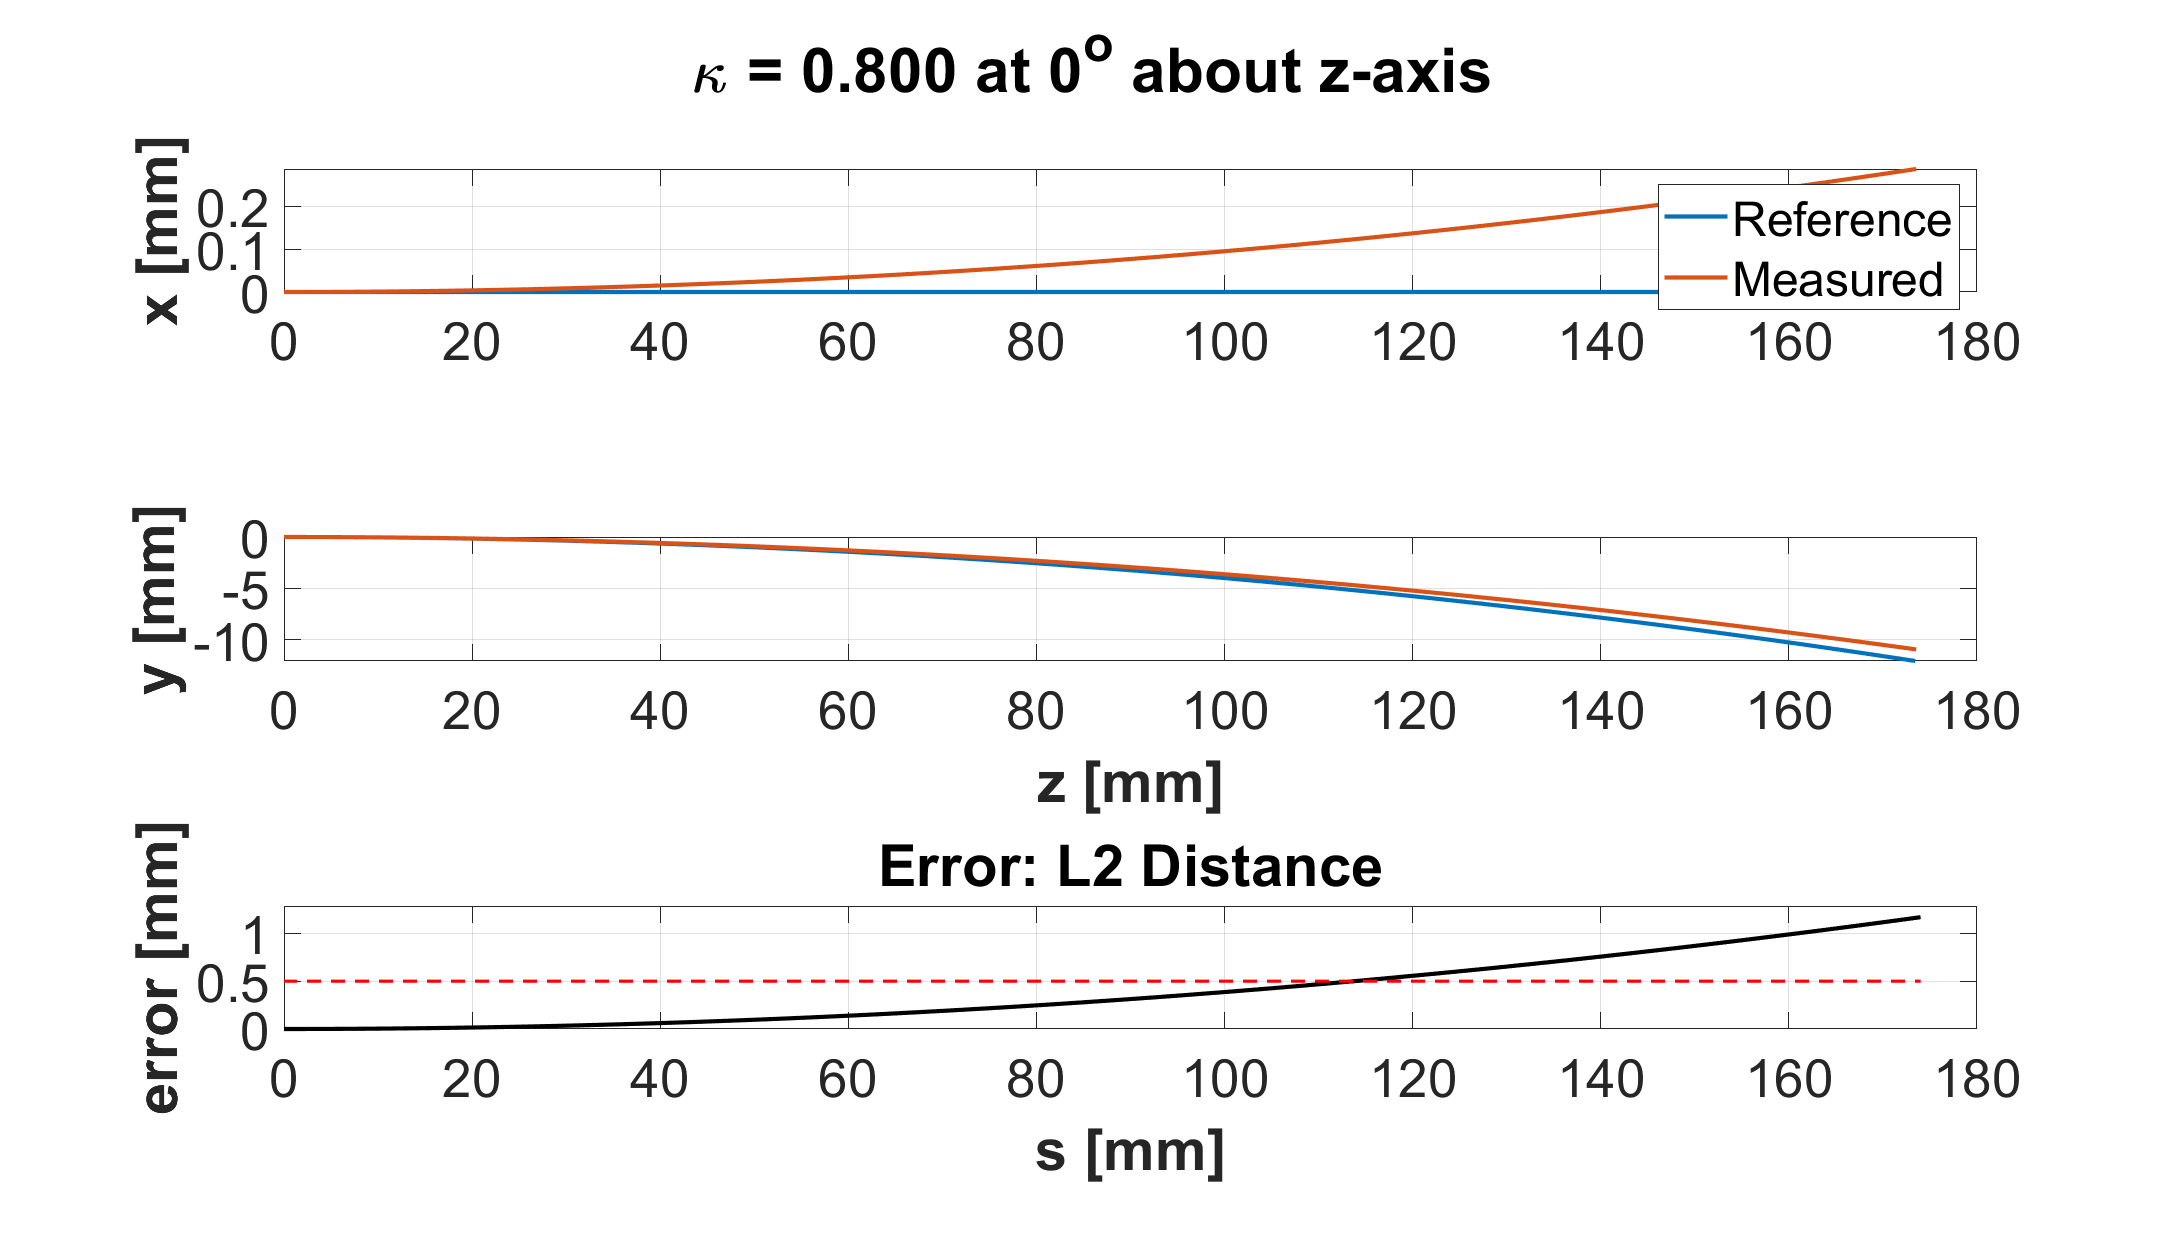
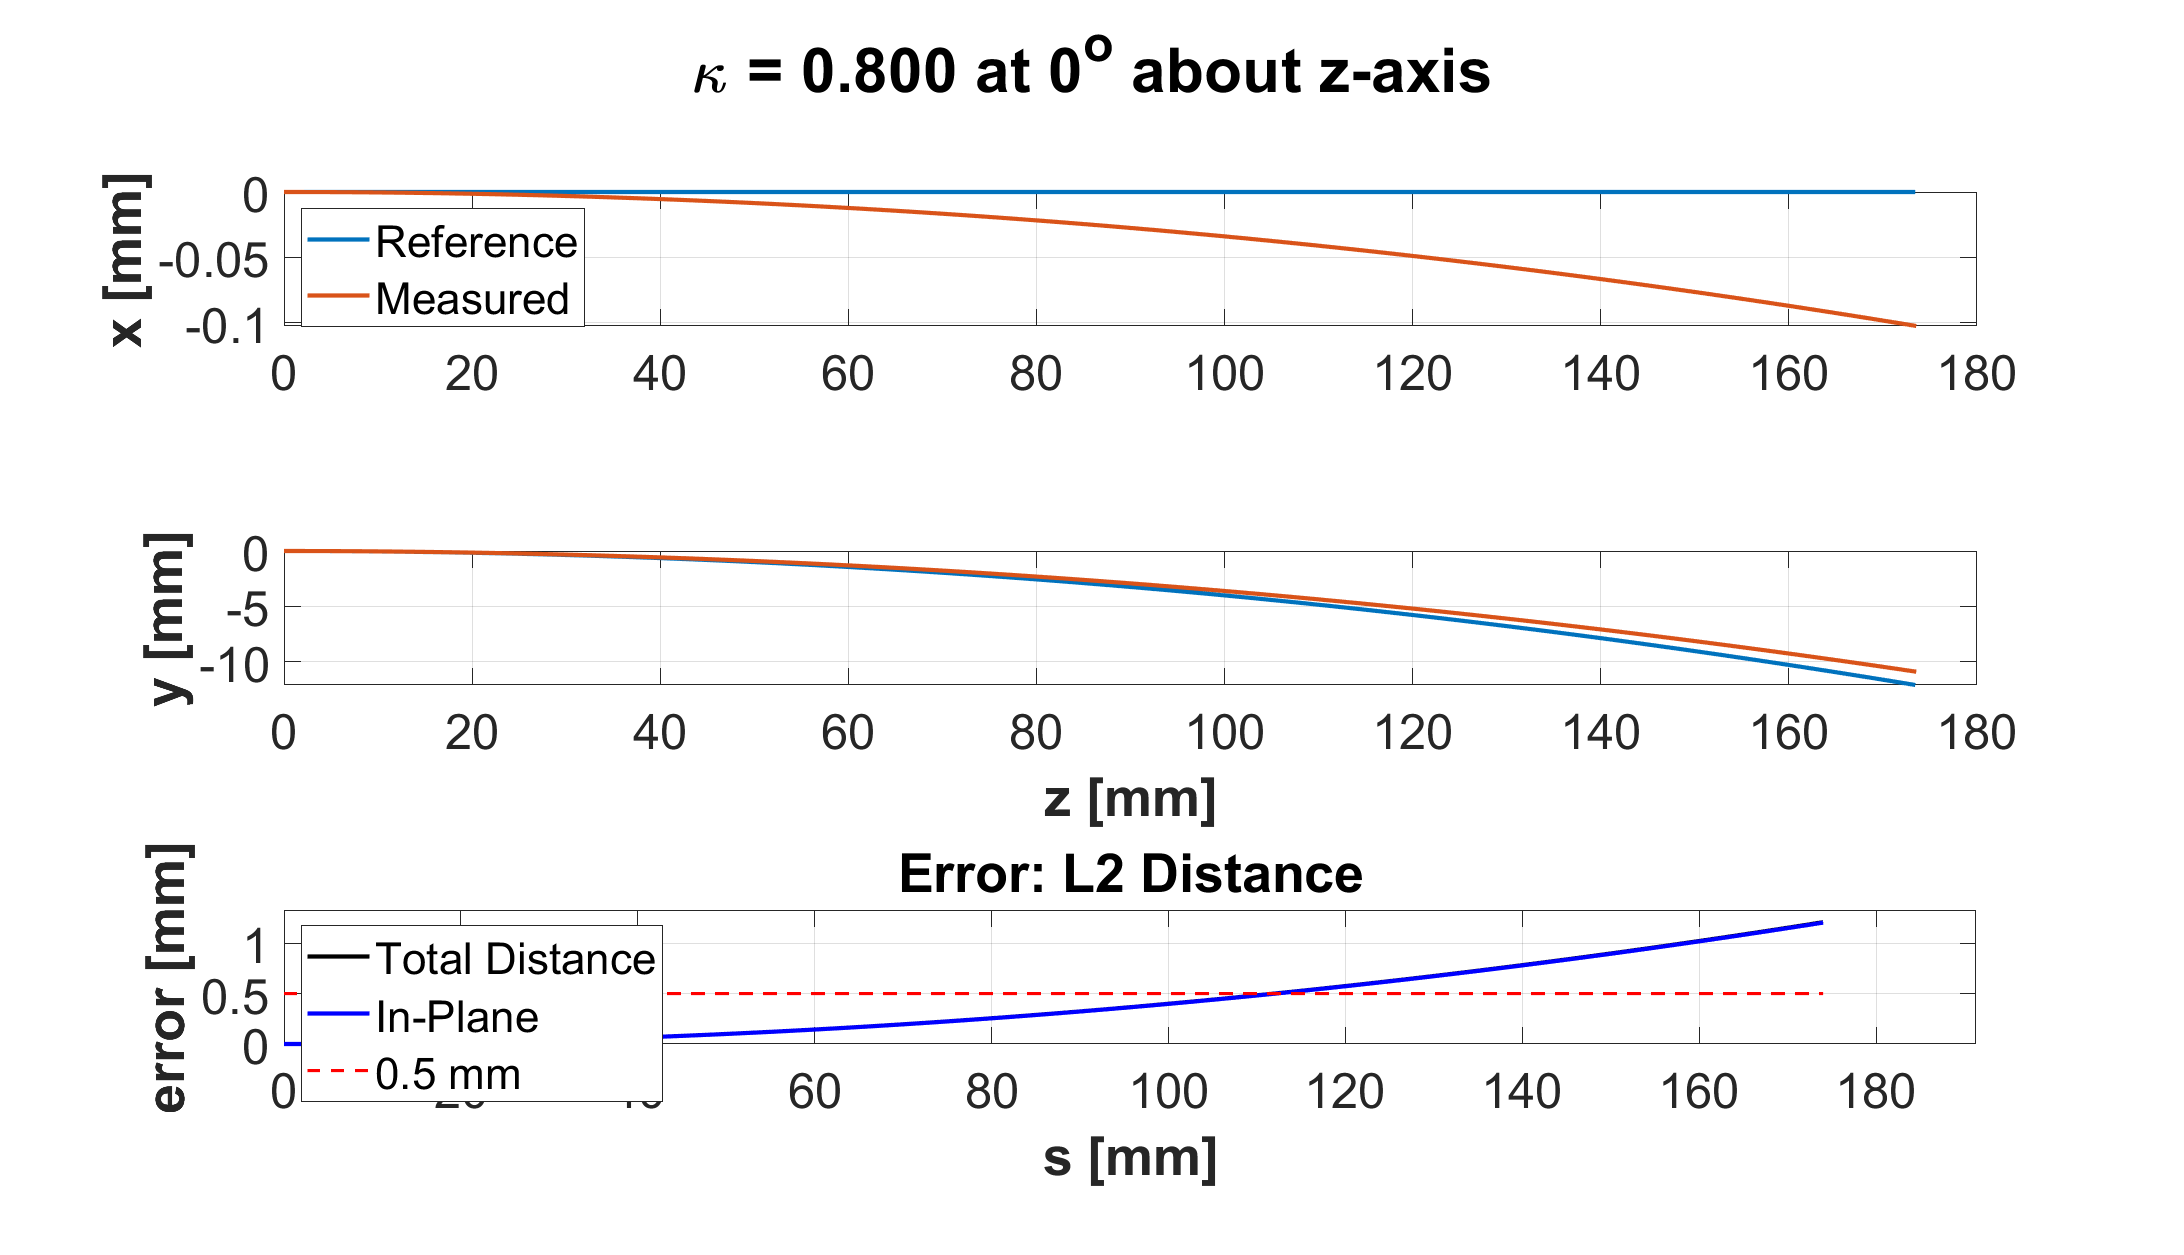
Added in-plane error for 2-D shape sensing

diff --git a/src/matlab_scripts/jig_shape_validation.m b/src/matlab_scripts/jig_shape_validation.m
@@ -4,11 +4,11 @@
 %
 % - written by: Dimitri Lezcano
 
-set(0,'DefaultAxesFontSize',26);
+set(0,'DefaultAxesFontSize',24);
 
 %% Set-up 
 % options
-save_bool = false;
+save_bool = true;
 
 % python set-up
 pydir = "../";
@@ -20,9 +20,9 @@ end
 directory = "../../FBG_Needle_Calibration_Data/needle_3CH_4AA/";
 fbgneedle_param = directory + "needle_params-Jig_Calibration_08-05-20.json";
 
-% datadir = directory + "Jig_Calibration_08-05-20/"; % calibration data
-datadir = directory + "Validation_Jig_Calibration_08-19-20/"; % validation data
-data_mats_file = datadir + "Data Matrices.xlsx";
+datadir = directory + "Jig_Calibration_08-05-20/"; % calibration data
+% datadir = directory + "Validation_Jig_Calibration_08-19-20/"; % validation data
+data_mats_file = datadir + "Data Matrices_new.xlsx";
 data_mats_proc_file = strrep(data_mats_file, '.xlsx', '_proc.xlsx');
 fig_save_file = datadir + "Jig_Shape_fit";
 
@@ -123,6 +123,7 @@ for exp_num = 1:num_expmts
     r_act = expmt_i.r_act;
     r_meas = expmt_i.r_meas;
     err_r = error_s_positions(r_act, r_meas);
+    err_inplane = error_s_positions_inplane(r_act, r_meas, expmt_i.curv_act);
     
     % start plotting
     figure('WindowStyle', 'docked');
@@ -135,7 +136,7 @@ for exp_num = 1:num_expmts
     plot(r_meas(3,:), r_meas(1,:), 'DisplayName', 'Measured', 'LineWidth', 2); hold off;
     ylabel('x [mm]', 'fontweight', 'bold'); % xlabel('z [mm]', 'fontweight', 'bold'); 
     grid on; %axis equal;
-    legend();    
+    legend('Location', 'southwest');    
     
     % plot the z-y deformation
     subplot(3,1,2);
@@ -146,12 +147,14 @@ for exp_num = 1:num_expmts
     
     % plot the error
     subplot(3,1,3);
-    plot(s, err_r, 'k', 'LineWidth', 2); hold on;
-    plot([0, max(s)], [0.5, 0.5], 'r--', 'LineWidth', 1.5); hold off;
+    plot(s, err_r, 'k', 'LineWidth', 2, 'DisplayName', 'Total Distance'); hold on;
+    plot(s, err_inplane, 'b', 'LineWidth', 2, 'DisplayName', 'In-Plane'); hold on;
+    plot([0, max(s)], [0.5, 0.5], 'r--', 'LineWidth', 1.5, 'DisplayName', '0.5 mm'); hold off;
     title('Error: L2 Distance');
     ylabel('error [mm]', 'fontweight', 'bold'); xlabel('s [mm]', 'fontweight', 'bold'); 
     grid on;
-    ylim([0, max([1.1 * err_r, 1])]);
+    xlim([0, 1.1*max(s)]); ylim([0, max([1.1 * err_r, 1])]);
+    legend('Location', 'northwest')
     
     sgtitle("\kappa = " + sprintf("%.3f at %d^o about z-axis", expmt_i.curvature, expmt_i.ref_angle), ...
         'fontsize', 30, 'fontweight', 'bold');
@@ -215,6 +218,26 @@ function err = error_s_positions(r_1, r_2)
 end
 
 
-% TODO: error in positions as a function of z-position (z)
-%           - will need some sort of interpolation
-
+% error in-plane deformaiton positions as a function of arclenth (s)
+% TODO: Need to add the normal (w_act) to define the plane
+function err = error_s_positions_inplane(r_1, r_2, w_act)
+    % calculate the positional deviation
+    dr = r_1 - r_2;
+    
+    % subtract out the out-of-plane deformation
+    if vecnorm(w_act) > 0
+        n = w_act./vecnorm(w_act);
+    else
+        n = zeros(3,1);
+    end
+    dr_inplane = dr - ((dr'*n)*n')';
+    
+    % calculate the error
+    err = vecnorm(dr_inplane);
+    
+end
+    
+    
+        
+        
+    
